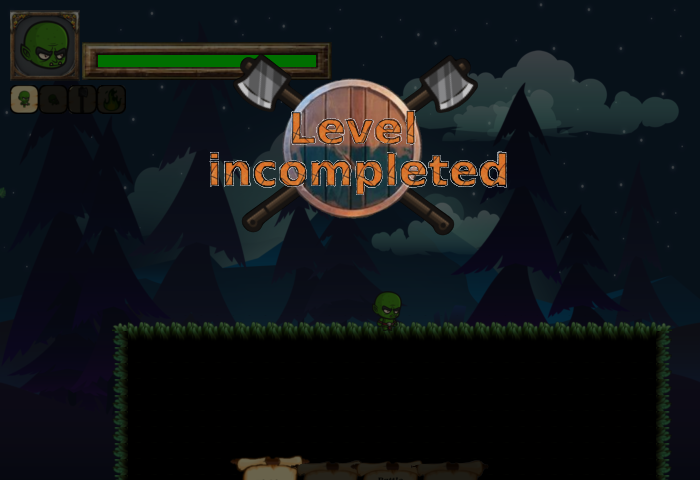
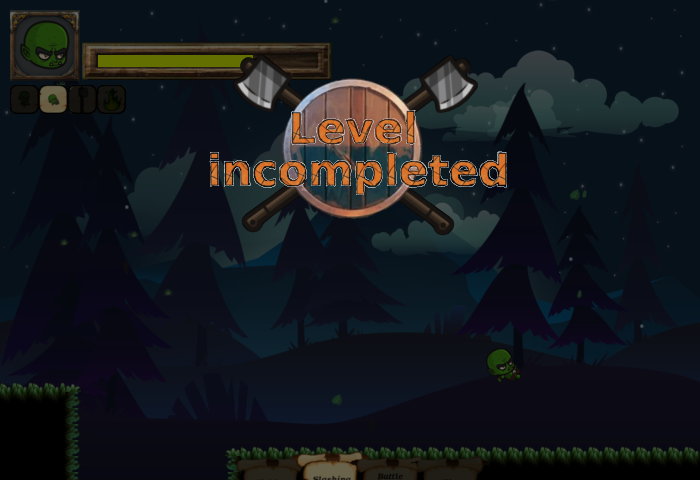
Reajusting the game envirement

diff --git a/data/menus/__init__.py b/data/menus/__init__.py
@@ -47,6 +47,7 @@ class Menus(object):
         self.user = '' # keep the current user name
         self.pygameEvent = 0 # to keep all the pygame.event in the game loop
         self.complet = False
+        self.qtlife = 0
 
         
     # Method to move in the main menu
@@ -60,7 +61,6 @@ class Menus(object):
                 self.painelState = 5
         key = pygame.key.get_pressed()
         if((key[K_ESCAPE])and(self.painelState == 7)):
-            self.saveUserData()
             self.painelState = 8
         ## Controling the map display in the game Envirement
         elif((key[K_m])and(self.painelState == 7)and(self.count >= 10)):
@@ -83,11 +83,7 @@ class Menus(object):
             # self.player = Player(self.screen, self.nivel, self.skills,self.lastPassPoint)
         elif(self.painelState == 3):
             self.painelState, self.user, self.nivel, self.lastPassPoint, self.qtlife, self.enimysKilled = self.userMenu.movingInUserMenu(self.user)
-            # self.getUpdateUserData()
-            self.gamplay = GamePlay(self.screen, self.nivel, self.lastPassPoint, self.qtlife, self.pygameEvent)
-            self.skills = Skills(self.screen, self.nivel)
-            self.map = Map(self.screen, self.nivel)
-            self.map.updateProgressInMap(self.lastPassPoint[0])
+            self.getUpdateUserData()
 
         elif(self.painelState == 6):
             self.painelState = self.intro.introDisplay()
@@ -100,12 +96,15 @@ class Menus(object):
             self.painelState, self.user = self.loadUser.movingInLoadMenu()
         elif(self.painelState == 7):
             self.painelState, self.player_rect, self.qtlife, self.currentenimysKilled = self.gamplay.drawingTheGamePlayEnvirement()
+            self.saveUserData()
+            # self.getUpdateUserData()
             # updating the map progress
             self.map.updateProgressInMap(self.player_rect.x)
         elif(self.painelState == 9):
             self.painelState = self.skills.movingInPainelSkills()
         elif (self.painelState == 8):
             self.painelState = self.pause.drawUserMenu()
+            self.saveUserData()
         elif(self.painelState == 10):
             self.map.drawMapInTheScreen()
         elif(self.painelState == 11):
@@ -129,7 +128,7 @@ class Menus(object):
             self.painelState, self.complet = self.levelincompleted.showPainel()
 
         # print(self.player_rect.x, self.player_rect.y)
-
+        print(self.qtlife)
 
     def updatingUserData(self):
         if not self.complet:
@@ -186,7 +185,8 @@ class Menus(object):
         lastPassPoint_y = int(allUserData[2])   # the last point in the game tha the user pass to in y
         self.lastPassPoint = (lastPassPoint_x, lastPassPoint_y)
         self.qtlife = int(allUserData[3])  # the last quantity of life save by the user
+        self.enimysKilled = int(allUserData[4])
         # restarting the game whit new data
-        self.gamplay = GamePlay(self.screen, self.nivel, self.lastPassPoint,self.qtlife, self.pygameEvent)
+        self.gamplay = GamePlay(self.screen, self.nivel, self.lastPassPoint,self.qtlife, self.pygameEvent, self.enimysKilled)
         self.skills = Skills(self.screen, self.nivel)
         self.map = Map(self.screen, self.nivel)

diff --git a/data/gameplay/enimy/__init__.py b/data/gameplay/enimy/__init__.py
@@ -6,9 +6,10 @@ from data.gameplay.enimy.golens import Golens
 from data.gameplay.collisionControl import Colision
 
 class ControlEnimys(object):
-    def __init__(self, screen, nivel):
+    def __init__(self, screen, nivel, enimysKilled):
         self.screen = screen
         self.nivel = nivel
+        self.enimyskilled = enimysKilled
         self.collision = Colision()
         self.allEnimys = []
         self.allEnimysPosition = []
@@ -144,6 +145,7 @@ class ControlEnimys(object):
                     self.killAttempt.append(15)
 
         elif (self.nivel == 3):
+
             self.allCactusPosition = [(716, 232), (756, 232), (788, 232), (828, 232), (942, 232), (982, 232), (1010, 232), (1046, 232)
                         ,(1170, 232), (1194, 232), (1218, 232), (1238, 232), (1266, 232), (1394, 232), (1414, 232), (1438, 232), (1466, 232)
                         , (1494, 232), (1882, 232), (1906, 232), (1934, 232)]
@@ -160,6 +162,9 @@ class ControlEnimys(object):
                 if(enimy.name == 'blue wizard'):
                     self.killAttempt.append(11)
             # self.positions = [(1448, 168),(1595, 168),(2718, 408),(2750, 296),(4014, 296),(4710, 584), (4870, 584)] 
+        [self.allEnimys.pop(0) for i in range(self.enimyskilled)]
+        [self.allEnimysPosition.pop(0) for i in range(self.enimyskilled)]
+
 
     def calculatingEnimyDelete(self,fireColid, pos,playerAttack, scroll):
         i = 0

diff --git a/data/gameplay/__init__.py b/data/gameplay/__init__.py
@@ -11,14 +11,14 @@ from data.gameplay.platforms import Plataform
 
 
 class GamePlay(object):
-    def __init__(self, screen, nivel, lastPassPoint,qtlife, pygameEvent):
+    def __init__(self, screen, nivel, lastPassPoint,qtlife, pygameEvent, enimysKilled):
         # self.allEnimys = ['blue wizard', 'fire golem', 'stone golem', 'ice golem', 'blue robots', 'dark robots', 'gold robots']
         self.screen = screen
         self.nivel = nivel
         self.lastPassPoint = lastPassPoint
         self.qtlife = qtlife
         self.pygameEvent = pygameEvent
-        self.enimys = ControlEnimys(self.screen, self.nivel)
+        self.enimys = ControlEnimys(self.screen, self.nivel, enimysKilled)
         self.animation = Animation(self.screen, self.nivel)
         self.headUpDisplay = H_u_d(self.screen, self.nivel, self.lastPassPoint, self.qtlife)
         self.player = Player(self.screen, self.nivel, self.lastPassPoint)
@@ -100,7 +100,6 @@ class GamePlay(object):
 
     def controllingTheImageOfGameOverAndLevelComplete(self, painelState):
         if(painelState==11):
-            print("0k")
             os.chdir('resources/image/menu/gamOver')
             pygame.image.save(self.screen, "back.png")
             pygame.time.delay(100)

diff --git a/data/menus/userMenu/__init__.py b/data/menus/userMenu/__init__.py
@@ -174,11 +174,11 @@ class UserMenu(object):
         atualPosition = int(atualPosition)
         currentProgressPerc = 0
         if ((nivel == 0)or(nivel == 1)):
-            currentProgressPerc = int(((atualPosition - 500)*100)/5460)
+            currentProgressPerc = int(((atualPosition - 500)*100)/(5460-500))
         elif(nivel == 2):
-            currentProgressPerc = int(((atualPosition - 500)*100)/6760)
+            currentProgressPerc = int(((atualPosition - 500)*100)/(6760-500))
         elif(nivel == 3):
-            currentProgressPerc = int(((atualPosition - 500)*100)/4200)
+            currentProgressPerc = int(((atualPosition - 500)*100)/(4200-500))
         currentProgress = "Level Status: "+str(currentProgressPerc)+'%'
 
         qtlife = int(qtlife)

diff --git a/data/gameplay/player/__init__.py b/data/gameplay/player/__init__.py
@@ -17,10 +17,10 @@ class Player(object):
         self.move_frame = 0
         self.player_img = pygame.image.load("resources/image/Golem/"+self.state+"/"+self.move_direction+"/0_Goblin_"+self.state+"_0.png").convert_alpha()
         self.player_rect=self.player_img.get_rect()
-        # self.player_rect.x = lastPassPoint[0]
-        # self.player_rect.y = lastPassPoint[1]
-        self.player_rect.x = 5400
-        self.player_rect.y = 0
+        self.player_rect.x = lastPassPoint[0]
+        self.player_rect.y = lastPassPoint[1]
+        # self.player_rect.x = 5400
+        # self.player_rect.y = 0
 
         ## atributes to control the player state
         self.moving_right = False

diff --git a/data/gameplay/headUpDisplay/__init__.py b/data/gameplay/headUpDisplay/__init__.py
@@ -8,7 +8,7 @@ class HeadUpDisplay(object):
         self.screen = screen
         self.life = Life(self.screen, qtlife)
         self.lastPassPoint = lastPassPoint[0]
-        # self.qtlife = qtlife
+        self.qtlife = qtlife
         self.progress = LevelProgress(self.screen, self.lastPassPoint)
         self.player = pygame.image.load("resources/image/headUpDisplay/conteiner/faceIcon.png")
         self.avalableSkills = ["kicking", "slashing","battleax", "greenfire", "bluefire"]
